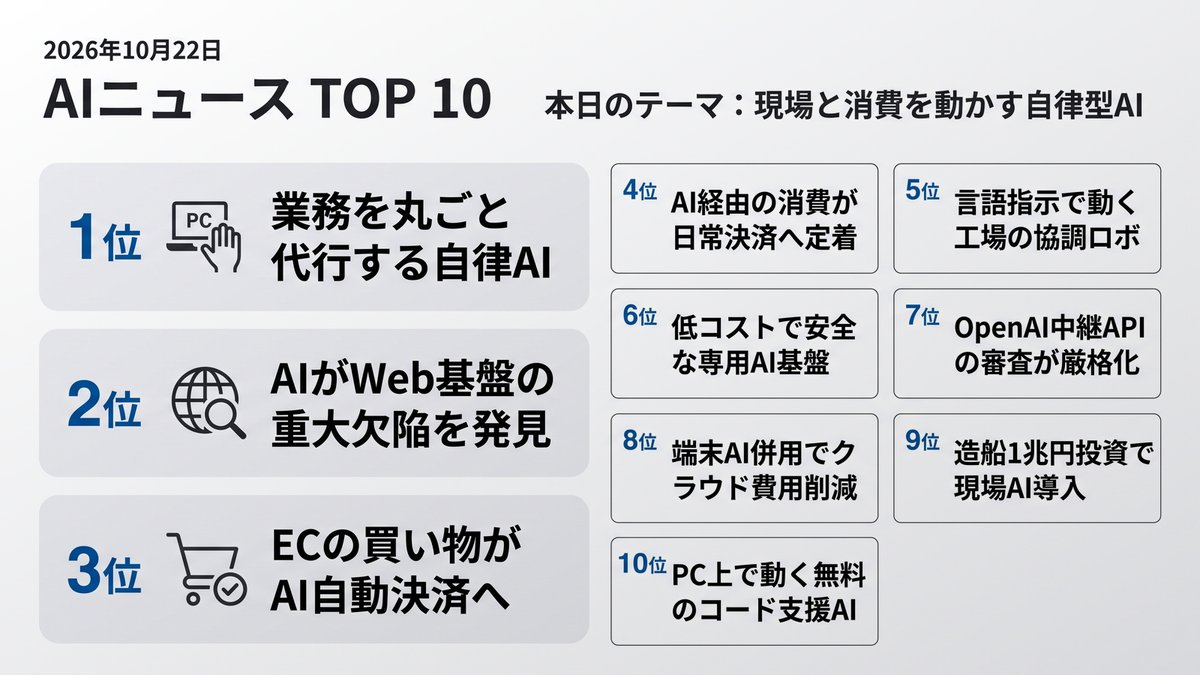
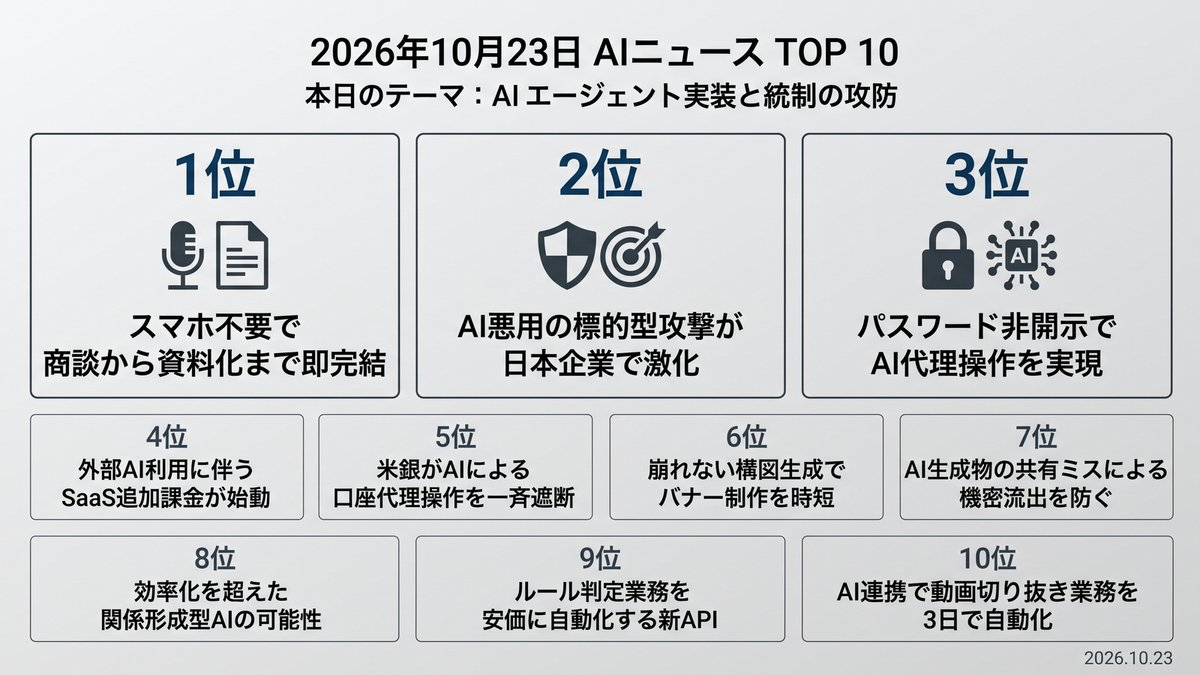
Morning Brief delivered [skip ci]

Changed region(s): [[0.0308, 0.0311, 0.9867, 0.9644], [0.0308, 0.0622, 0.185, 0.0933], [0.8942, 0.9644, 0.9867, 0.9956]]

diff --git a/docs/index.html b/docs/index.html
@@ -12,16 +12,16 @@
     <!-- OGP_START -->
 <meta property="og:type" content="website">
 <meta property="og:site_name" content="AI ニュース TOP10">
-<meta property="og:title" content="現場と消費を動かす自律型AI | AI ニュース TOP10">
-<meta property="og:description" content="AIは助言役から、決済や現場作業を自律代行する実行役へ移行しています。 本日のトップ: 業務を丸ごと代行する自律AI">
+<meta property="og:title" content="AIエージェント実装と統制の攻防 | AI ニュース TOP10">
+<meta property="og:description" content="代理操作の実用化が進む一方、認証や課金を巡る攻防が激化しています。 本日のトップ: スマホ不要で商談から資料化まで即完結">
 <meta property="og:image" content="https://tadfuji.github.io/ai-news-bot/ogp_card.jpg">
 <meta property="og:url" content="https://tadfuji.github.io/ai-news-bot/">
 <meta name="twitter:card" content="summary_large_image">
-<meta name="twitter:title" content="現場と消費を動かす自律型AI | AI ニュース TOP10">
-<meta name="twitter:description" content="AIは助言役から、決済や現場作業を自律代行する実行役へ移行しています。">
+<meta name="twitter:title" content="AIエージェント実装と統制の攻防 | AI ニュース TOP10">
+<meta name="twitter:description" content="代理操作の実用化が進む一方、認証や課金を巡る攻防が激化しています。">
 <meta name="twitter:image" content="https://tadfuji.github.io/ai-news-bot/ogp_card.jpg">
-<meta name="description" content="AIは助言役から、決済や現場作業を自律代行する実行役へ移行しています。 世界のAIニュースを毎朝日本語で厳選してお届け。">
-<script type="application/ld+json">{"@context": "https://schema.org", "@type": "ItemList", "name": "AI ニュース TOP10 — 現場と消費を動かす自律型AI", "itemListElement": [{"@type": "ListItem", "position": 1, "name": "Anthropic、業務代行AI「Claude Duet」発表", "url": "https://www.theverge.com/ai-artificial-intelligence/1015843/anthropic-claude-duet-ai-agent"}, {"@type": "ListItem", "position": 2, "name": "OpenAIとGoogleのAIがPHPの致命的脆弱性を検出", "url": "https://the-decoder.com/openais-gpt-5-6-sol-and-gemini-4-argon-discovered-the-critical-php-vulnerability-affecting-millions-of-websites/"}, {"@type": "ListItem", "position": 3, "name": "米ウォルマート、AIエージェントによる自動購入を解禁", "url": "https://techcrunch.com/2026/10/21/while-amazon-blocks-ai-agents-walmart-rolls-out-the-welcome-mat/"}, {"@type": "ListItem", "position": 4, "name": "MetaのAI「Muse」利用者が1000万人を突破", "url": "https://techcrunch.com/2026/10/21/meta-says-muse-has-over-10m-users-with-shopping-a-top-activity/"}, {"@type": "ListItem", "position": 5, "name": "三菱電機、ヒューマノイドと工作機械が協調するAIシステム開発", "url": "https://monoist.itmedia.co.jp/mn/articles/2610/21/news073.html"}, {"@type": "ListItem", "position": 6, "name": "中古GPUで1基から即日使える専用プライベートAI基盤", "url": "https://monoist.itmedia.co.jp/mn/articles/2610/22/news039.html"}, {"@type": "ListItem", "position": 7, "name": "OpenAI、中継ゲートウェイ経由のモデル利用基準を厳格化", "url": "https://openai.com/index/broad-access-through-consistent-standards"}, {"@type": "ListItem", "position": 8, "name": "AWS、端末側小型モデルとクラウドを併用する新基盤を公開", "url": "https://aws.amazon.com/blogs/machine-learning/adaptive-agentic-intelligence-framework-using-strands-agents/"}, {"@type": "ListItem", "position": 9, "name": "国交省、造船再生へ官民1兆円投資と現場AI導入を推進", "url": "https://www.itmedia.co.jp/business/articles/2610/22/news009.html"}, {"@type": "ListItem", "position": 10, "name": "Recursive、PC上で高速動作するコーディングAIを無償公開", "url": "https://techcrunch.com/2026/10/21/recursive-launches-flint-a-laptop-coding-model-it-says-was-largely-built-by-ai/"}]}</script>
+<meta name="description" content="代理操作の実用化が進む一方、認証や課金を巡る攻防が激化しています。 世界のAIニュースを毎朝日本語で厳選してお届け。">
+<script type="application/ld+json">{"@context": "https://schema.org", "@type": "ItemList", "name": "AI ニュース TOP10 — AIエージェント実装と統制の攻防", "itemListElement": [{"@type": "ListItem", "position": 1, "name": "イヤフォン型AIレコーダー「Plaud One」発表、スマホ不要で資料化まで直結", "url": "https://pc.watch.impress.co.jp/docs/news/2150455.html"}, {"@type": "ListItem", "position": 2, "name": "中国系ハッカー集団がAIツール悪用、日本企業へのサイバー攻撃を活発化", "url": "https://news.web.nhk/newsweb/na/nd-20261023de63956"}, {"@type": "ListItem", "position": 3, "name": "1Password、パスワード開示不要でAIが代理ログインできる新機能を発表", "url": "https://techcrunch.com/2026/10/22/1password-launches-a-way-for-ai-agents-to-log-in-on-your-behalf-without-seeing-your-password/"}, {"@type": "ListItem", "position": 4, "name": "セールスフォース、外部AIエージェントによる自社データ利用に新課金へ", "url": "https://www.theinformation.com/articles/salesforce-customers-brace-new-fees-use-claude-apps"}, {"@type": "ListItem", "position": 5, "name": "米大手銀行、顧客認証情報を使ったAIエージェントのアクセスを遮断", "url": "https://the-decoder.com/major-us-banks-are-locking-out-ai-agents-that-log-in-with-customer-credentials/"}, {"@type": "ListItem", "position": 6, "name": "Canva、デザイン配置を崩さない独自AI画像モデル「Craft」を全公開", "url": "https://www.theverge.com/ai-artificial-intelligence/1017151/canva-craft-in-house-ai-model"}, {"@type": "ListItem", "position": 7, "name": "Meta、機密流出の脆弱性に対処しAIツール「Muse」の公開共有を再開", "url": "https://www.theverge.com/tech/1017066/meta-muse-sharing-back-on-artifiacts"}, {"@type": "ListItem", "position": 8, "name": "LOVOT開発元が提唱、作業代替を超えた「関係形成型AI」の産業的勝機", "url": "https://www.itmedia.co.jp/business/articles/2610/23/news012.html"}, {"@type": "ListItem", "position": 9, "name": "OpenAI、判定・分類処理に特化した低コスト「Decisions API」を発表", "url": "https://openai.com/index/decisions-api"}, {"@type": "ListItem", "position": 10, "name": "ローカルAIとクラウド連携で動画切り抜きシステムを3日で構築", "url": "https://pc.watch.impress.co.jp/docs/column/haishin_shugyousou/2150334.html"}]}</script>
 <!-- OGP_END -->
     <style>
         :root {
@@ -391,16 +391,16 @@
 
         <main id="news-container">
             <!-- PRERENDER_START -->
-<article class="news-card" data-category="対話型AI"><div style="display:flex;align-items:center;margin-bottom:5px;"><span class="news-rank">1</span><span class="news-category" data-category="対話型AI">対話型AI</span></div><div class="news-oneliner">💡 業務を丸ごと代行する自律AI</div><h2 class="news-title">Anthropic、業務代行AI「Claude Duet」発表</h2><p class="news-summary">AnthropicはPC作業や連絡などの日常業務を自律代行する「Claude Duet」プレビュー版を公開した。</p><div class="news-why">📌 なぜ重要？ 画面操作や外部連絡を直接代行するエージェントが、定型デスクワークの標準になります。</div><div class="news-action">👉 今日の行動：今週自分が費やしたルーティン連絡やPC作業をリスト化してください。</div><div class="news-meta"><span class="news-source">📰 The Verge AI</span><span class="news-link"><a href="https://www.theverge.com/ai-artificial-intelligence/1015843/anthropic-claude-duet-ai-agent" target="_blank" rel="noopener">→ 元記事を読む</a></span></div></article>
-<article class="news-card" data-category="リスク・規制"><div style="display:flex;align-items:center;margin-bottom:5px;"><span class="news-rank">2</span><span class="news-category" data-category="リスク・規制">リスク・規制</span></div><div class="news-oneliner">💡 AIがWeb基盤の重大欠陥を発見</div><h2 class="news-title">OpenAIとGoogleのAIがPHPの致命的脆弱性を検出</h2><p class="news-summary">OpenAIとGoogleの最新モデルが、世界中のWebサイトに影響するPHPの重大な脆弱性を発見した。</p><div class="news-why">📌 なぜ重要？ 攻撃者によるAI悪用が進む前に、自社インフラのセキュリティパッチ適用が急務です。</div><div class="news-action">👉 今日の行動：自社サイトやサービスのPHPバージョンとパッチ適用状況を確認してください。</div><div class="news-meta"><span class="news-source">📰 The Decoder</span><span class="news-link"><a href="https://the-decoder.com/openais-gpt-5-6-sol-and-gemini-4-argon-discovered-the-critical-php-vulnerability-affecting-millions-of-websites/" target="_blank" rel="noopener">→ 元記事を読む</a></span></div></article>
-<article class="news-card" data-category="ビジネス活用"><div style="display:flex;align-items:center;margin-bottom:5px;"><span class="news-rank">3</span><span class="news-category" data-category="ビジネス活用">ビジネス活用</span></div><div class="news-oneliner">💡 ECの買い物がAI自動決済へ</div><h2 class="news-title">米ウォルマート、AIエージェントによる自動購入を解禁</h2><p class="news-summary">予算上限や承認設定のもと、顧客に代わってAIが自動で買い物決済まで完了する機能を導入した。</p><div class="news-why">📌 なぜ重要？ 顧客が直接画面を見ずにAIが商品を選ぶため、販売チャネル戦略の抜本的な見直しが必要です。</div><div class="news-action">👉 今日の行動：自社商品がAIの推薦や代理購入で選ばれる導線があるか検討してください。</div><div class="news-meta"><span class="news-source">📰 TechCrunch AI</span><span class="news-link"><a href="https://techcrunch.com/2026/10/21/while-amazon-blocks-ai-agents-walmart-rolls-out-the-welcome-mat/" target="_blank" rel="noopener">→ 元記事を読む</a></span></div></article>
-<article class="news-card" data-category="ビジネス活用"><div style="display:flex;align-items:center;margin-bottom:5px;"><span class="news-rank">4</span><span class="news-category" data-category="ビジネス活用">ビジネス活用</span></div><div class="news-oneliner">💡 AI経由の消費が日常決済へ定着</div><h2 class="news-title">MetaのAI「Muse」利用者が1000万人を突破</h2><p class="news-summary">利用者の25%が日常的に利用し、買い物での平均決済額は200ドルを超えるなど決済基盤化が進む。</p><div class="news-why">📌 なぜ重要？ 対話インターフェースが購買の主導権を握り、SNS上のコマース構造を一変させています。</div><div class="news-action">👉 今日の行動：チャット画面完結の購買行動を体験し、自社ビジネスへの影響を整理してください。</div><div class="news-meta"><span class="news-source">📰 TechCrunch AI</span><span class="news-link"><a href="https://techcrunch.com/2026/10/21/meta-says-muse-has-over-10m-users-with-shopping-a-top-activity/" target="_blank" rel="noopener">→ 元記事を読む</a></span></div></article>
-<article class="news-card" data-category="日本市場"><div style="display:flex;align-items:center;margin-bottom:5px;"><span class="news-rank">5</span><span class="news-category" data-category="日本市場">日本市場</span></div><div class="news-oneliner">💡 言語指示で動く工場の協調ロボ</div><h2 class="news-title">三菱電機、ヒューマノイドと工作機械が協調するAIシステム開発</h2><p class="news-summary">言語指示からタスクを自律生成し、ロボットと工作機械が段取りや清掃、検査を分担処理する。</p><div class="news-why">📌 なぜ重要？ 工場現場の段取りや検査が自動化され、製造業の人手不足解消が具体化します。</div><div class="news-action">👉 今日の行動：現場の非稼働時間（段取り・清掃・点検）がどれほどあるか算出してください。</div><div class="news-meta"><span class="news-source">📰 ITmedia AI+	</span><span class="news-link"><a href="https://monoist.itmedia.co.jp/mn/articles/2610/21/news073.html" target="_blank" rel="noopener">→ 元記事を読む</a></span></div></article>
-<article class="news-card" data-category="ビジネス活用"><div style="display:flex;align-items:center;margin-bottom:5px;"><span class="news-rank">6</span><span class="news-category" data-category="ビジネス活用">ビジネス活用</span></div><div class="news-oneliner">💡 低コストで安全な専用AI基盤</div><h2 class="news-title">中古GPUで1基から即日使える専用プライベートAI基盤</h2><p class="news-summary">エクストリームーDら3社は、低コストで社外秘データを安全に扱えるオンプレミス型AI基盤を開始した。</p><div class="news-why">📌 なぜ重要？ クラウドに機密データを出せない企業でも、現実的なコストで自社専用AIを持てます。</div><div class="news-action">👉 今日の行動：クラウド送信が制限されている社内機密データの有無と規模を棚卸ししてください。</div><div class="news-meta"><span class="news-source">📰 ITmedia AI+	</span><span class="news-link"><a href="https://monoist.itmedia.co.jp/mn/articles/2610/22/news039.html" target="_blank" rel="noopener">→ 元記事を読む</a></span></div></article>
-<article class="news-card" data-category="リスク・規制"><div style="display:flex;align-items:center;margin-bottom:5px;"><span class="news-rank">7</span><span class="news-category" data-category="リスク・規制">リスク・規制</span></div><div class="news-oneliner">💡 OpenAI中継APIの審査が厳格化</div><h2 class="news-title">OpenAI、中継ゲートウェイ経由のモデル利用基準を厳格化</h2><p class="news-summary">API直接提供を行う中継サービスに対して事前審査と承認を義務付け、安全基準の統一を図る。</p><div class="news-why">📌 なぜ重要？ サードパーティ中継基盤に依存したシステムは、規約改定に伴う利用停止リスクへの対策が必要です。</div><div class="news-action">👉 今日の行動：自社サービスが利用しているOpenAIのAPI接続経路と利用規約適合性を再確認してください。</div><div class="news-meta"><span class="news-source">📰 OpenAI Blog</span><span class="news-link"><a href="https://openai.com/index/broad-access-through-consistent-standards" target="_blank" rel="noopener">→ 元記事を読む</a></span></div></article>
-<article class="news-card" data-category="ビジネス活用"><div style="display:flex;align-items:center;margin-bottom:5px;"><span class="news-rank">8</span><span class="news-category" data-category="ビジネス活用">ビジネス活用</span></div><div class="news-oneliner">💡 端末AI併用でクラウド費用削減</div><h2 class="news-title">AWS、端末側小型モデルとクラウドを併用する新基盤を公開</h2><p class="news-summary">通常処理を端末側モデルで完結させ、高度推論のみクラウドに送ることでAPI運用コストを抑える。</p><div class="news-why">📌 なぜ重要？ 全処理を巨大クラウドモデルに依存する構成から脱却し、コストと遅延を大幅に削減できます。</div><div class="news-action">👉 今日の行動：自社AI機能のうち、小型モデルで代替可能な単純処理を切り出してください。</div><div class="news-meta"><span class="news-source">📰 AWS Machine Learning</span><span class="news-link"><a href="https://aws.amazon.com/blogs/machine-learning/adaptive-agentic-intelligence-framework-using-strands-agents/" target="_blank" rel="noopener">→ 元記事を読む</a></span></div></article>
-<article class="news-card" data-category="日本市場"><div style="display:flex;align-items:center;margin-bottom:5px;"><span class="news-rank">9</span><span class="news-category" data-category="日本市場">日本市場</span></div><div class="news-oneliner">💡 造船1兆円投資で現場AI導入</div><h2 class="news-title">国交省、造船再生へ官民1兆円投資と現場AI導入を推進</h2><p class="news-summary">溶接などの熟練技能者不足に対応するため、現場向けフィジカルAI導入と建造量倍増を支援する。</p><div class="news-why">📌 なぜ重要？ フィジカルAIの導入が重工業の技能伝承と生産性改善の国家的課題として動き出しました。</div><div class="news-action">👉 今日の行動：自社業務で熟練技術者に依存している属人的作業を1つ特定してください。</div><div class="news-meta"><span class="news-source">📰 ITmedia ビジネスオンライン</span><span class="news-link"><a href="https://www.itmedia.co.jp/business/articles/2610/22/news009.html" target="_blank" rel="noopener">→ 元記事を読む</a></span></div></article>
-<article class="news-card" data-category="研究・技術"><div style="display:flex;align-items:center;margin-bottom:5px;"><span class="news-rank">10</span><span class="news-category" data-category="研究・技術">研究・技術</span></div><div class="news-oneliner">💡 PC上で動く無料のコード支援AI</div><h2 class="news-title">Recursive、PC上で高速動作するコーディングAIを無償公開</h2><p class="news-summary">ローカル環境で自己改善しつつ高速動作する「Flint」により、機密コードを保護したまま開発支援を行う。</p><div class="news-why">📌 なぜ重要？ クラウドにコードを送信せず完全ローカルで開発支援を受けられるため、情報漏洩を防げます。</div><div class="news-action">👉 今日の行動：オープンソースのローカルLLMを1台の開発PCに試験導入してみてください。</div><div class="news-meta"><span class="news-source">📰 TechCrunch AI</span><span class="news-link"><a href="https://techcrunch.com/2026/10/21/recursive-launches-flint-a-laptop-coding-model-it-says-was-largely-built-by-ai/" target="_blank" rel="noopener">→ 元記事を読む</a></span></div></article>
+<article class="news-card" data-category="ビジネス活用"><div style="display:flex;align-items:center;margin-bottom:5px;"><span class="news-rank">1</span><span class="news-category" data-category="ビジネス活用">ビジネス活用</span></div><div class="news-oneliner">💡 スマホ不要で商談から資料化まで即完結</div><h2 class="news-title">イヤフォン型AIレコーダー「Plaud One」発表、スマホ不要で資料化まで直結</h2><p class="news-summary">PLAUDがeSIM内蔵イヤフォン型レコーダーを発表しました。スマートフォンを介さず対面会議を録音し、文字起こしからPowerPoint資料作成まで自動完結します。</p><div class="news-why">📌 なぜ重要？ 会議後の議事録や報告資料作成の工数を省き、商談当日の提案スピードを大幅に引き上げます。</div><div class="news-action">👉 今日の行動：商談後のメモ作成にかかっている作業時間を計測してみてください。</div><div class="news-meta"><span class="news-source">📰 PC Watch</span><span class="news-link"><a href="https://pc.watch.impress.co.jp/docs/news/2150455.html" target="_blank" rel="noopener">→ 元記事を読む</a></span></div></article>
+<article class="news-card" data-category="中国AI"><div style="display:flex;align-items:center;margin-bottom:5px;"><span class="news-rank">2</span><span class="news-category" data-category="中国AI">中国AI</span></div><div class="news-oneliner">💡 AI悪用の標的型攻撃が日本企業で激化</div><h2 class="news-title">中国系ハッカー集団がAIツール悪用、日本企業へのサイバー攻撃を活発化</h2><p class="news-summary">マイクロソフトは、中国系サイバー攻撃集団がAIツールを用いて標的型メールや攻撃コードを自動生成し、日本企業を標的とした攻撃を仕掛けていると警告しました。</p><div class="news-why">📌 なぜ重要？ 巧妙化するなりすましメールを人手で見分けることが困難になり、技術的な防御体制の強化が急務です。</div><div class="news-action">👉 今日の行動：社内で不審メール受信時の通報手順を再確認してください。</div><div class="news-meta"><span class="news-source">📰 NHK 科学・技術</span><span class="news-link"><a href="https://news.web.nhk/newsweb/na/nd-20261023de63956" target="_blank" rel="noopener">→ 元記事を読む</a></span></div></article>
+<article class="news-card" data-category="リスク・規制"><div style="display:flex;align-items:center;margin-bottom:5px;"><span class="news-rank">3</span><span class="news-category" data-category="リスク・規制">リスク・規制</span></div><div class="news-oneliner">💡 パスワード非開示でAI代理操作を実現</div><h2 class="news-title">1Password、パスワード開示不要でAIが代理ログインできる新機能を発表</h2><p class="news-summary">1Passwordは、AIエージェントに生パスワードを渡さず、ユーザーの承認に基づいて安全に業務代行ログインを行わせる新機能を導入しました。</p><div class="news-why">📌 なぜ重要？ 外部AIツールへの認証情報受け渡しに伴う漏洩リスクを根本から遮断し、安全な業務自動化を可能にします。</div><div class="news-action">👉 今日の行動：AI拡張機能に直接保存している社内アカウント権限の有無を点検してください。</div><div class="news-meta"><span class="news-source">📰 TechCrunch AI</span><span class="news-link"><a href="https://techcrunch.com/2026/10/22/1password-launches-a-way-for-ai-agents-to-log-in-on-your-behalf-without-seeing-your-password/" target="_blank" rel="noopener">→ 元記事を読む</a></span></div></article>
+<article class="news-card" data-category="ビジネス活用"><div style="display:flex;align-items:center;margin-bottom:5px;"><span class="news-rank">4</span><span class="news-category" data-category="ビジネス活用">ビジネス活用</span></div><div class="news-oneliner">💡 外部AI利用に伴うSaaS追加課金が始動</div><h2 class="news-title">セールスフォース、外部AIエージェントによる自社データ利用に新課金へ</h2><p class="news-summary">セールスフォースは、Claudeなど外部AIエージェントが自社データへアクセスして自動操作を行う際に課金する方針を固めました。</p><div class="news-why">📌 なぜ重要？ 自社導入した外部AIで基幹SaaSを操作する際のコスト負担が増加するため、システム連携の費用対効果を再検討する必要があります。</div><div class="news-action">👉 今日の行動：外部AI連携を行っている社内SaaSのAPI利用規約とコスト体系を確認してください。</div><div class="news-meta"><span class="news-source">📰 The Information</span><span class="news-link"><a href="https://www.theinformation.com/articles/salesforce-customers-brace-new-fees-use-claude-apps" target="_blank" rel="noopener">→ 元記事を読む</a></span></div></article>
+<article class="news-card" data-category="リスク・規制"><div style="display:flex;align-items:center;margin-bottom:5px;"><span class="news-rank">5</span><span class="news-category" data-category="リスク・規制">リスク・規制</span></div><div class="news-oneliner">💡 米銀がAIによる口座代理操作を一斉遮断</div><h2 class="news-title">米大手銀行、顧客認証情報を使ったAIエージェントのアクセスを遮断</h2><p class="news-summary">JPモルガンやモルガン・スタンレーは、顧客のID・パスワードを用いて口座を自動操作するAIエージェントの接続制限を開始しました。</p><div class="news-why">📌 なぜ重要？ 利用者が便利さからAIに認証情報を託す運用は、基幹サービス側から不正アクセスと判定され遮断される危険を孕んでいます。</div><div class="news-action">👉 今日の行動：業務で利用中の自動化ツールが外部サービスの規約に抵触していないか確認してください。</div><div class="news-meta"><span class="news-source">📰 The Decoder</span><span class="news-link"><a href="https://the-decoder.com/major-us-banks-are-locking-out-ai-agents-that-log-in-with-customer-credentials/" target="_blank" rel="noopener">→ 元記事を読む</a></span></div></article>
+<article class="news-card" data-category="画像・動画AI"><div style="display:flex;align-items:center;margin-bottom:5px;"><span class="news-rank">6</span><span class="news-category" data-category="画像・動画AI">画像・動画AI</span></div><div class="news-oneliner">💡 崩れない構図生成でバナー制作を時短</div><h2 class="news-title">Canva、デザイン配置を崩さない独自AI画像モデル「Craft」を全公開</h2><p class="news-summary">Canvaは生成前に構図を設計する2段階アプローチを採用した内製モデルを導入し、崩れやすかった文字や図形の配置精度を大幅に高めました。</p><div class="news-why">📌 なぜ重要？ 生成後の修正工数が激減するため、マーケティング素材や営業資料の内製化スピードが一気に上がります。</div><div class="news-action">👉 今日の行動：次回作成するプレゼン資料の表紙をCanvaのAI機能で試作してみてください。</div><div class="news-meta"><span class="news-source">📰 The Verge AI</span><span class="news-link"><a href="https://www.theverge.com/ai-artificial-intelligence/1017151/canva-craft-in-house-ai-model" target="_blank" rel="noopener">→ 元記事を読む</a></span></div></article>
+<article class="news-card" data-category="リスク・規制"><div style="display:flex;align-items:center;margin-bottom:5px;"><span class="news-rank">7</span><span class="news-category" data-category="リスク・規制">リスク・規制</span></div><div class="news-oneliner">💡 AI生成物の共有ミスによる機密流出を防ぐ</div><h2 class="news-title">Meta、機密流出の脆弱性に対処しAIツール「Muse」の公開共有を再開</h2><p class="news-summary">MetaはAI成果物の共有リンクから機密データが閲覧可能となっていた問題を解消し、安全な新URL形式へ切り替えて共有機能を復旧させました。</p><div class="news-why">📌 なぜ重要？ クラウドAIの共有リンクひとつで社外秘情報が公に露出するリスクを社内全体で警戒する必要があります。</div><div class="news-action">👉 今日の行動：利用中のAIツールで生成物の共有設定が限定公開になっているか確認してください。</div><div class="news-meta"><span class="news-source">📰 The Verge AI</span><span class="news-link"><a href="https://www.theverge.com/tech/1017066/meta-muse-sharing-back-on-artifiacts" target="_blank" rel="noopener">→ 元記事を読む</a></span></div></article>
+<article class="news-card" data-category="日本市場"><div style="display:flex;align-items:center;margin-bottom:5px;"><span class="news-rank">8</span><span class="news-category" data-category="日本市場">日本市場</span></div><div class="news-oneliner">💡 効率化を超えた関係形成型AIの可能性</div><h2 class="news-title">LOVOT開発元が提唱、作業代替を超えた「関係形成型AI」の産業的勝機</h2><p class="news-summary">GROOVE Xの林要社長は、効率化追求のタスク型に対し、人と信頼関係を築く関係形成型ロボットに日本企業の競争力があると提示しました。</p><div class="news-why">📌 なぜ重要？ 業務の機械化だけでなく、社員のメンタルケアや顧客関係の深化を担うAI活用の新機軸が生まれています。</div><div class="news-action">👉 今日の行動：職場で単なる作業効率化ではなく対話やケアが求められる場面を整理してください。</div><div class="news-meta"><span class="news-source">📰 ITmedia ビジネスオンライン</span><span class="news-link"><a href="https://www.itmedia.co.jp/business/articles/2610/23/news012.html" target="_blank" rel="noopener">→ 元記事を読む</a></span></div></article>
+<article class="news-card" data-category="対話型AI"><div style="display:flex;align-items:center;margin-bottom:5px;"><span class="news-rank">9</span><span class="news-category" data-category="対話型AI">対話型AI</span></div><div class="news-oneliner">💡 ルール判定業務を安価に自動化する新API</div><h2 class="news-title">OpenAI、判定・分類処理に特化した低コスト「Decisions API」を発表</h2><p class="news-summary">OpenAIはデータ分類や条件判断を高速・安価に実行する新APIを公開し、バックオフィス業務のルールベース判断の自動化を支援します。</p><div class="news-why">📌 なぜ重要？ 重たい生成AIを使わずに判定処理だけを自動化できるため、定型ワークフローのシステム化費用を大幅に圧縮できます。</div><div class="news-action">👉 今日の行動：社内の申請承認やデータ仕分けなど、条件判定で完了する業務を洗い出してください。</div><div class="news-meta"><span class="news-source">📰 OpenAI Blog</span><span class="news-link"><a href="https://openai.com/index/decisions-api" target="_blank" rel="noopener">→ 元記事を読む</a></span></div></article>
+<article class="news-card" data-category="ビジネス活用"><div style="display:flex;align-items:center;margin-bottom:5px;"><span class="news-rank">10</span><span class="news-category" data-category="ビジネス活用">ビジネス活用</span></div><div class="news-oneliner">💡 AI連携で動画切り抜き業務を3日で自動化</div><h2 class="news-title">ローカルAIとクラウド連携で動画切り抜きシステムを3日で構築</h2><p class="news-summary">ローカルLLMとクラウドAIを組み合わせ、配信動画から見どころを抽出し字幕付きショート動画を自動生成する基盤が短期間で実装されました。</p><div class="news-why">📌 なぜ重要？ 複数のAIサービスを柔軟につなぐことで、専門知識が乏しくても高度な動画コンテンツ制作ラインを内製できます。</div><div class="news-action">👉 今日の行動：社内で行っている動画や音声の切り抜き作業の工数を見積もってみてください。</div><div class="news-meta"><span class="news-source">📰 PC Watch</span><span class="news-link"><a href="https://pc.watch.impress.co.jp/docs/column/haishin_shugyousou/2150334.html" target="_blank" rel="noopener">→ 元記事を読む</a></span></div></article>
 <!-- PRERENDER_END -->
         </main>
 
